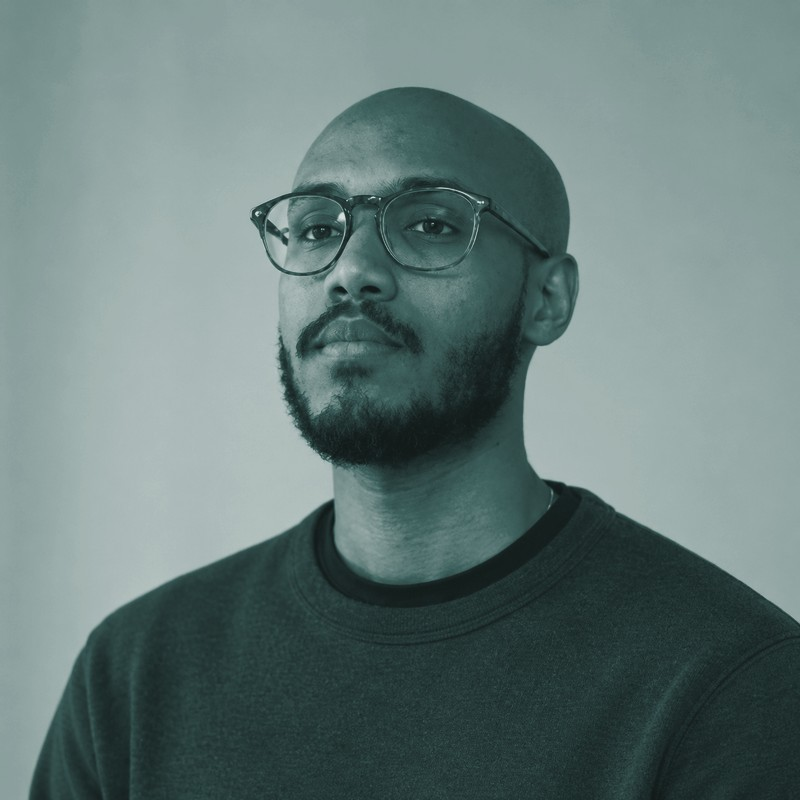
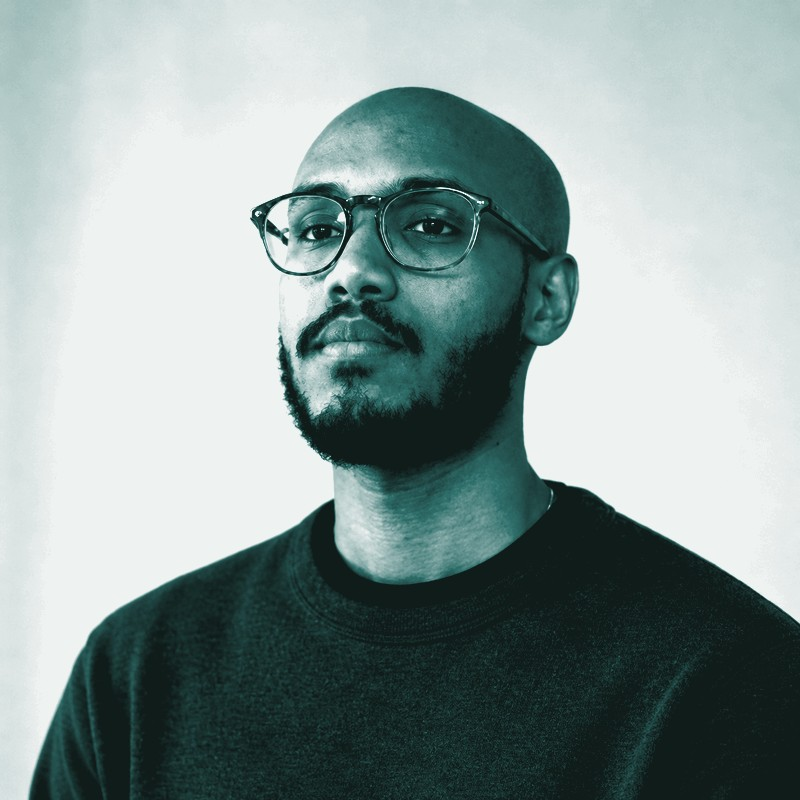
Revise headshot treatment: higher contrast duotone, teal border
Previous duotone tinted the whole image uniformly and blended into
the dark background. Reworked so teal only shows in shadows/midtones
with highlights near-white, and contrast is boosted so the face reads
clearly. Added a 2px teal border (var(--signal)) on both the Home
hero and About avatars so the image visually separates from the page
background instead of merging into it.

Owner reviewed both a refined-duotone and a straight-grayscale
candidate and picked the duotone version.

diff --git a/style.css b/style.css
@@ -192,7 +192,7 @@ code {
   height: 64px;
   border-radius: 10px;
   object-fit: cover;
-  border: 1px solid var(--rule);
+  border: 2px solid var(--signal);
   flex-shrink: 0;
 }
 
@@ -201,7 +201,7 @@ code {
   height: 180px;
   border-radius: 12px;
   object-fit: cover;
-  border: 1px solid var(--rule);
+  border: 2px solid var(--signal);
   float: left;
   margin: 0.25rem 1.5rem 1rem 0;
 }
